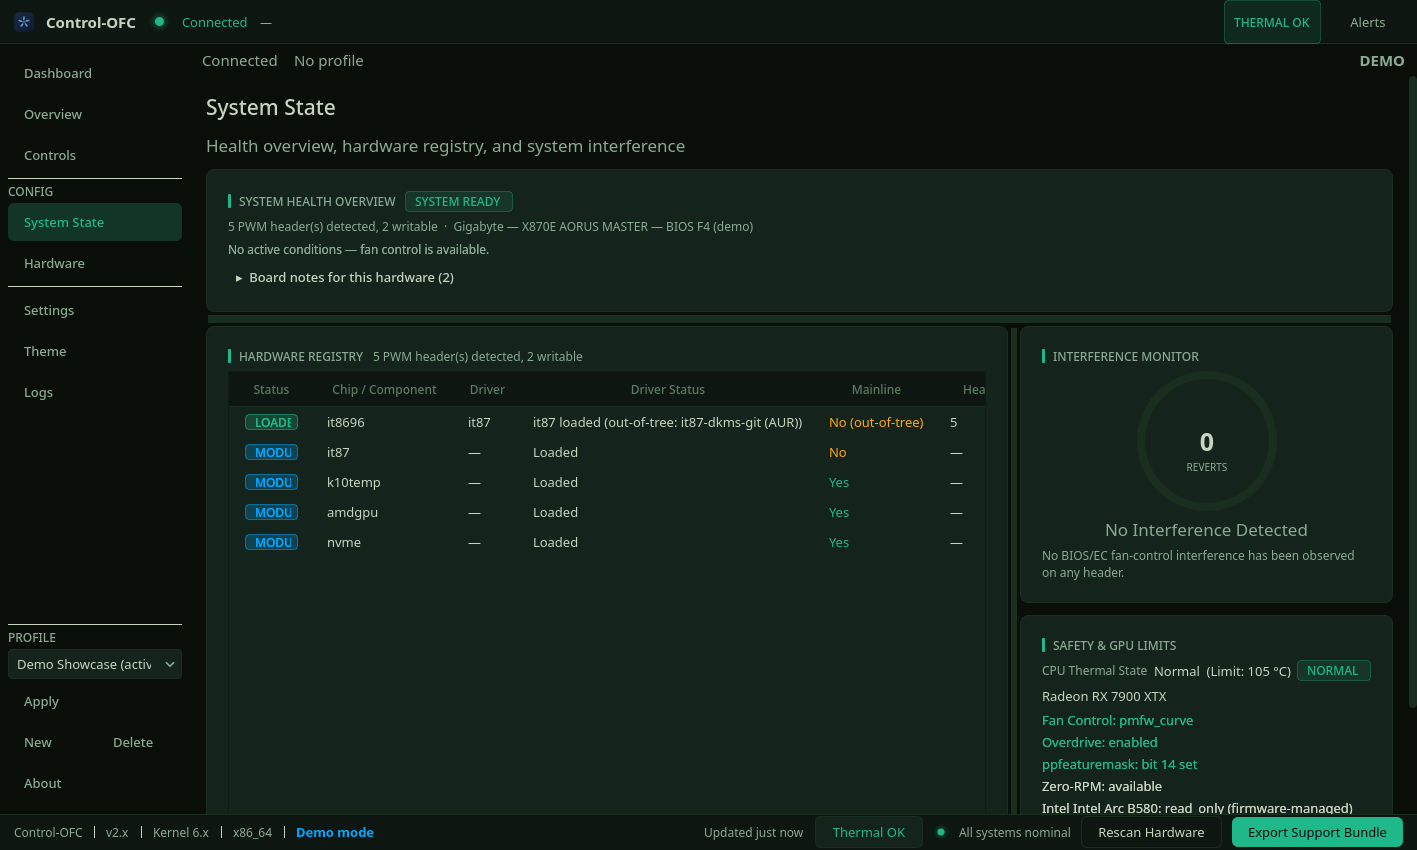
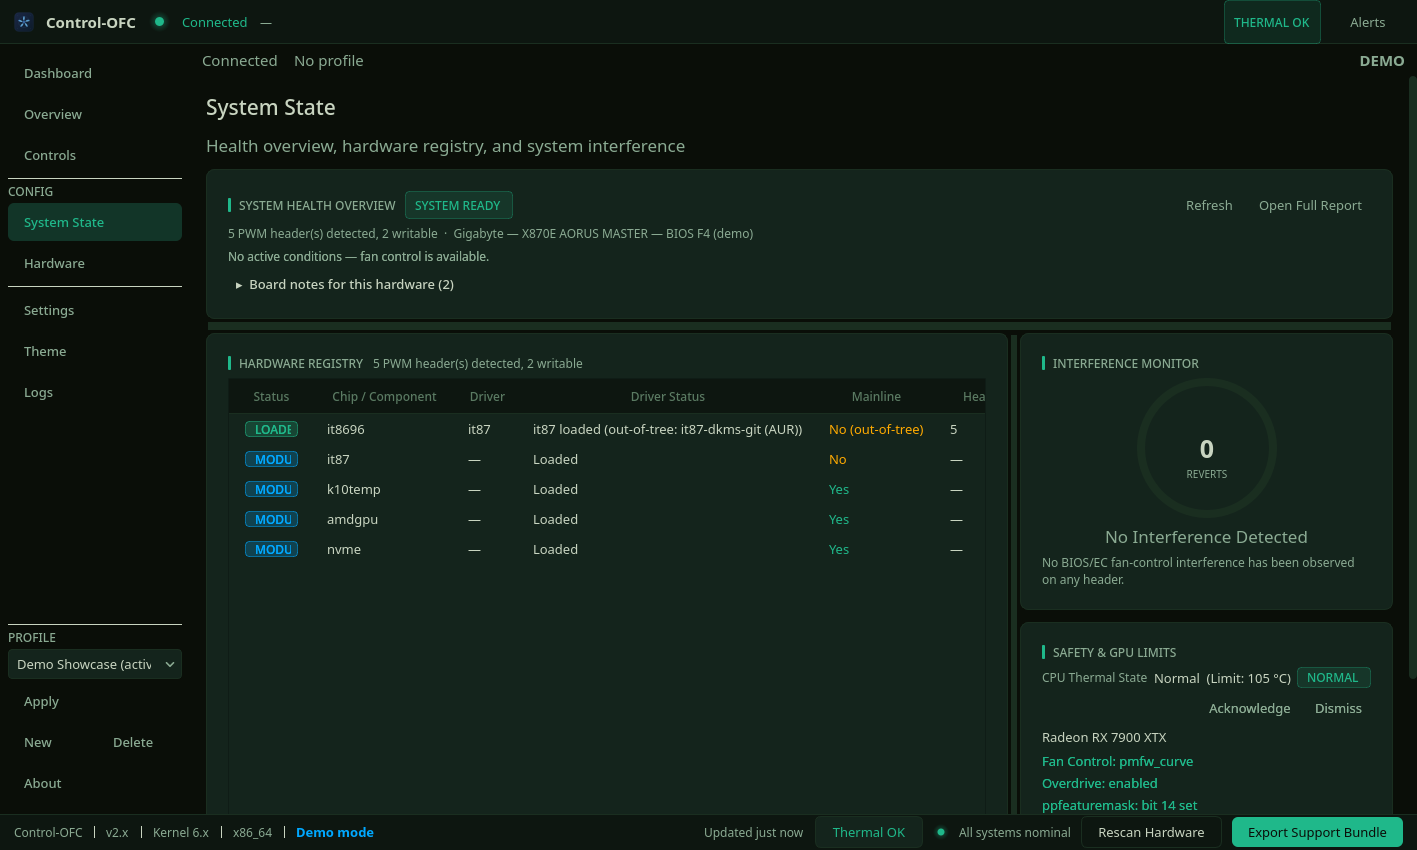
release: v2.74.0
Phase 4 release metadata and presentation layer. Re-dates the CHANGELOG section
to the actual publication date (the work was committed just past local midnight
on the 12th and the heading had been left at the 11th rather than guessed
forward), and moves the README release line to v2.74.0 — 2026-09-12.

The daemon floor stays >= v2.11.0. GUI 2.74.0 wants daemon >= 2.46.0 for the new
`enable_revert_last_seen_ms` field but degrades cleanly without it (an unknown
age never suppresses a warning), so what the package *requires* is unchanged —
and that is what the README line and the PKGBUILD depends both state.

Screenshots recaptured because src/control_ofc/ui/ moved: two of thirteen
differ, 04_system_state (the header actions and the thermal row's silencing
controls) and 06_settings (DEC-359 collapsed three settings keys into one, which
those counters read). 01_dashboard is byte-identical, so the known two-variant
chart noise did not fire.

manual/hardware-troubleshooting.md: the reclaim severity ramp was left describing
a count of 1-9 as an amber WARN, which DEC-360 makes wrong for a header that has
gone quiet. Documents the stand-down and the Past Interference relabel without
restating the threshold (DEC-292).

Claude-Session: https://claude.ai/code/session_01JNivBR2nH41TBKphZGQfUL

diff --git a/manual/hardware-troubleshooting.md b/manual/hardware-troubleshooting.md
@@ -265,6 +265,8 @@ The Hardware Readiness report surfaces a per-header count with a severity ramp:
 
 The verdict takes the highest severity across all headers, so if any single header is in HIGH state the whole report alerts you to it.
 
+Since v2.74.0 the count is **dated**, not merely counted. The daemon reports how long ago each header's most recent reclaim was, and once every affected header has been quiet for long enough the **System State** condition stands down: the **Interference Monitor** keeps the count, relabels it **Past Interference**, and tells you how long ago it was. The count itself never resets while the daemon is running, so this is what separates a BIOS fighting you *now* from one that lost the argument hours ago — the severity ramp above describes a live fight. If the age is not known, because the daemon predates the report or the count does, the warning stays exactly as it was: absence of a measurement is not evidence that something is old.
+
 Since v2.56.0 each header's own card in **Cooling Hardware** shows this count too, in its **Details ▸ Capabilities** block — a header that has never been reclaimed reads *Not observed*. A header currently under firmware control **and** with reclaims on record shows a **Control reclaimed** status; a header that was reclaimed in the past but is back under the daemon's control does not, because that is contention the daemon won rather than a live problem.
 
 The daemon includes a watchdog that re-asserts `pwm_enable=1` automatically — control still works in the WARN/HIGH cases, but BIOS Smart Fan 6 should be set to "Manual" for the affected headers (see the vendor guidance the report auto-shows for Gigabyte + IT8696E systems).

diff --git a/README.md b/README.md
@@ -1,6 +1,6 @@
 # Control-OFC GUI
 
-**Latest release:** v2.71.0 — 2026-09-11. Pairs with `control-ofc-daemon` ≥ v2.11.0. Individual features gate on newer daemons and say so in the app when one is missing; [CHANGELOG.md](CHANGELOG.md) records which version introduced each.
+**Latest release:** v2.74.0 — 2026-09-12. Pairs with `control-ofc-daemon` ≥ v2.11.0. Individual features gate on newer daemons and say so in the app when one is missing; [CHANGELOG.md](CHANGELOG.md) records which version introduced each.
 
 Desktop fan control interface for Linux. Communicates with the [`control-ofc-daemon`](https://github.com/Plan-B-Development/control-ofc-daemon) service to monitor temperatures, manage fan speeds, and apply custom fan curves.
 

diff --git a/CHANGELOG.md b/CHANGELOG.md
@@ -1,6 +1,6 @@
 # Changelog
 
-## [2.74.0] — 2026-09-11
+## [2.74.0] — 2026-09-12
 
 **Pairs with `control-ofc-daemon` >= v2.46.0 for the new field; the floor for
 everything else is unchanged at v2.11.0.** An older daemon simply omits it and
